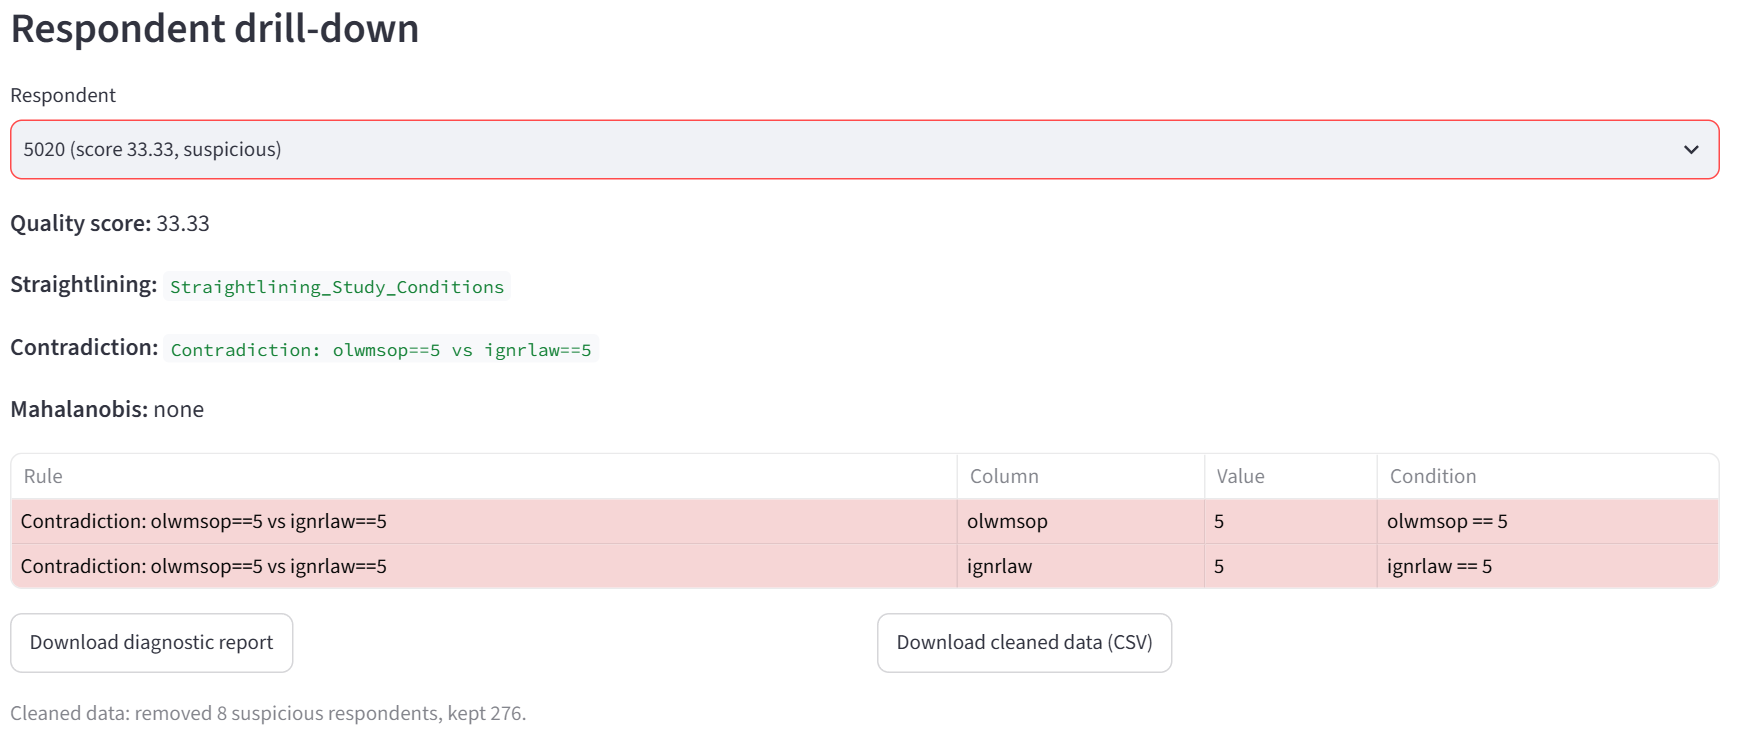
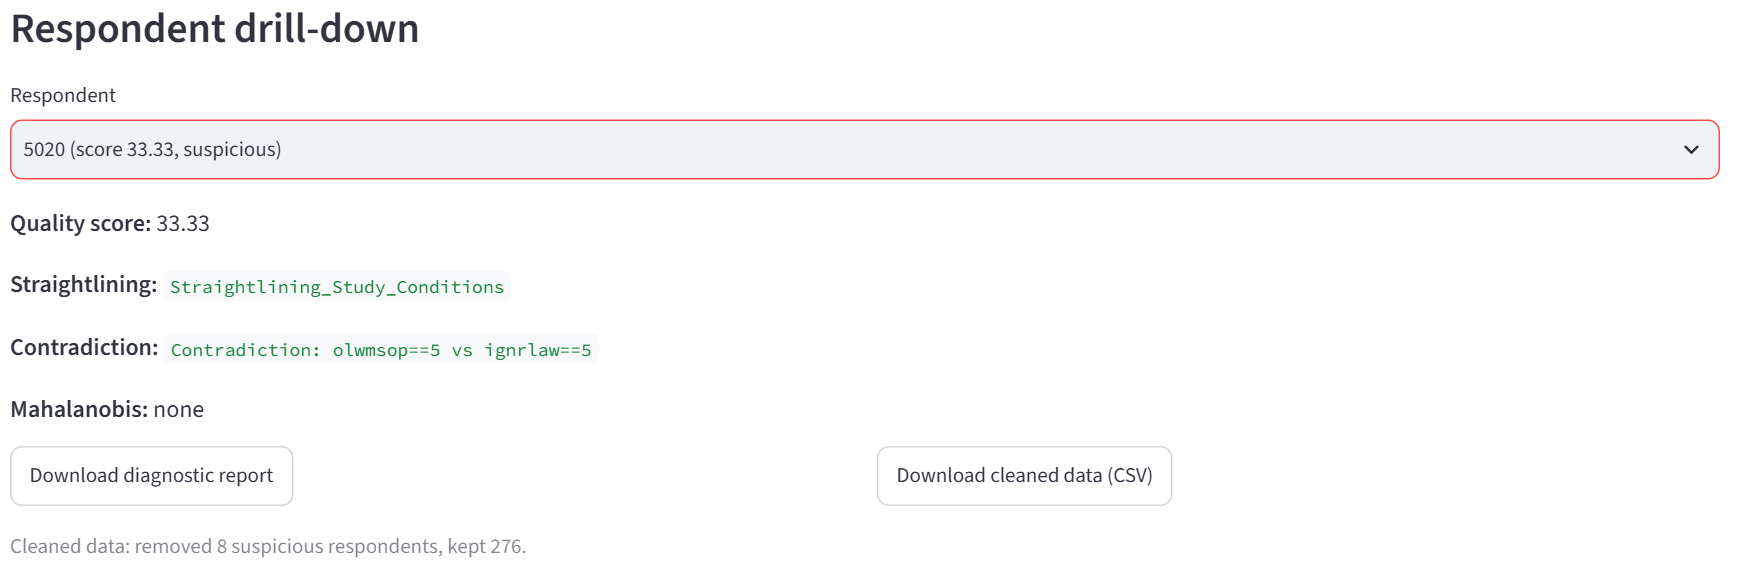
HW11 step 9: download step shows flag, reasons and downloads only

diff --git a/docs/slides/index.html b/docs/slides/index.html
@@ -152,7 +152,7 @@ html, body, .reveal-viewport { background: var(--bg); }
           <span class="fragment" data-fragment-index="3"><b>b</b> Answers that can't both be true: rules</span>
           <span class="fragment" data-fragment-index="4"><b>c</b> Unlike everyone else: map</span>
         </span></span></li>
-      <li class="fragment" data-fragment-index="5"><span class="num">4</span><span>Download the report and the cleaned file.</span></li>
+      <li class="fragment" data-fragment-index="5"><span class="num">4</span><span>Flagged, with reasons. Then download the report and the cleaned file.</span></li>
     </ol>
     <div class="shots r-stack">
       <figure class="fragment fade-out" data-fragment-index="1">
@@ -176,8 +176,8 @@ html, body, .reveal-viewport { background: var(--bg); }
         <figcaption>c · Mahalanobis PCA map of one scale: red dots are outliers on it; suspicious only if on 3 scales</figcaption>
       </figure>
       <figure class="fragment" data-fragment-index="5">
-        <img class="shot" src="img/demo-4-download.png" alt="Respondent drill-down for 5020 with its reasons, the buttons Download diagnostic report and Download cleaned data (CSV), and the note: removed 8 suspicious respondents, kept 276.">
-        <figcaption>Real SurveyGuard screen · synthetic sample · cleaned data: removed 8, kept 276</figcaption>
+        <img class="shot" src="img/demo-4-download.png" alt="Respondent 5020 flagged as suspicious, score 33.33, with its reasons: straightlining on Study_Conditions and the contradiction olwmsop==5 vs ignrlaw==5; below, the buttons Download diagnostic report and Download cleaned data (CSV), and the note: removed 8 suspicious respondents, kept 276.">
+        <figcaption>Real SurveyGuard screen · synthetic sample · the rule table between them left out</figcaption>
       </figure>
     </div>
   </div>

diff --git a/PROCESS.md b/PROCESS.md
@@ -59,3 +59,4 @@
 | 6 | Demo slide in my order | I laid out the demo: 1 the run stays, 2 the three detectors, 3 one visual per detector, 4 the data download; Claude rebuilt it as seven steps: 1 the run screen; 2 the app's Detector results table and bar chart (29 / 42 / 0, cut from the same run); 3a the straightlining heatmap, 3b the contradiction rule table, 3c the Mahalanobis PCA map (the app's charts from the promo page, synthetic sample), each with a plain one-line label; 4 the drill-down with the two download buttons and "removed 8, kept 276"; the notes follow the steps and say that in this sample nobody is a Mahalanobis outlier on three scales; checked in headless Chrome, no overflow | I set the order of the demo slide |
 | 7 | Slide 1 in steps | I asked for the "For" and "Why" sentences of slide 1 to appear one after the other, like the demo; Claude made them reveal.js fragments: first only the name, then "For social science students…", then "Why…" together with the answer grid and the "Free · runs on your own computer" line; checked in headless Chrome | I asked for the for-whom and why parts to appear separately |
 | 8 | Slide 1: picture at once, texts one by one | I asked for the answer grid to be there from the start and only the two sentences to come separately; Claude removed the fragment from the grid: now the name and the grid show at once, the first click adds "For…", the second "Why…" with the "Free · runs on your own computer" line; checked in headless Chrome | I asked for the picture at once and the two texts separately |
+| 9 | Download step without the rule table | I asked to leave the rule table out of the download step (the page has it, but here it hid the point), so that it reads: flagged, then download; Claude built the image from the same app screenshot, the top (respondent 5020, score 33.33, the reasons) stacked on the bottom (the two download buttons, "removed 8, kept 276"), said so in the caption ("the rule table between them left out"), and changed step 4 to "Flagged, with reasons. Then download the report and the cleaned file."; checked in headless Chrome, no overflow | I asked to drop the rule table from the download step |
